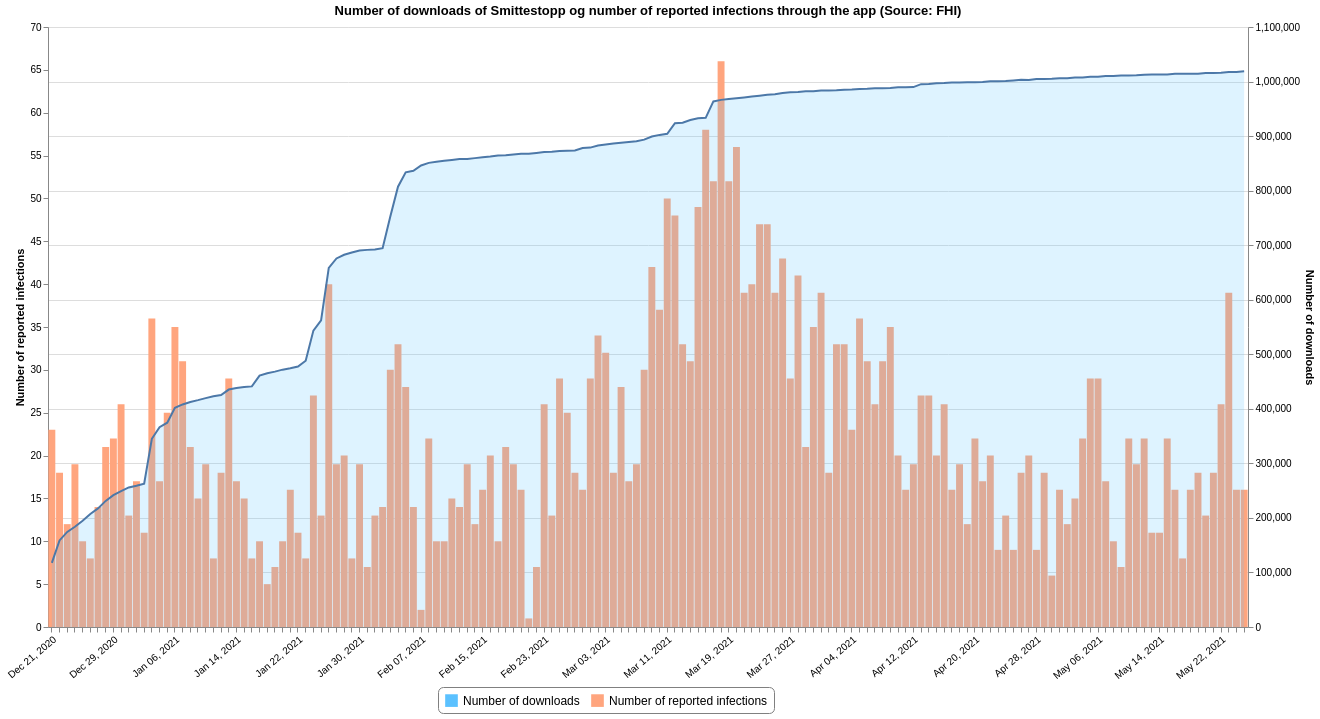
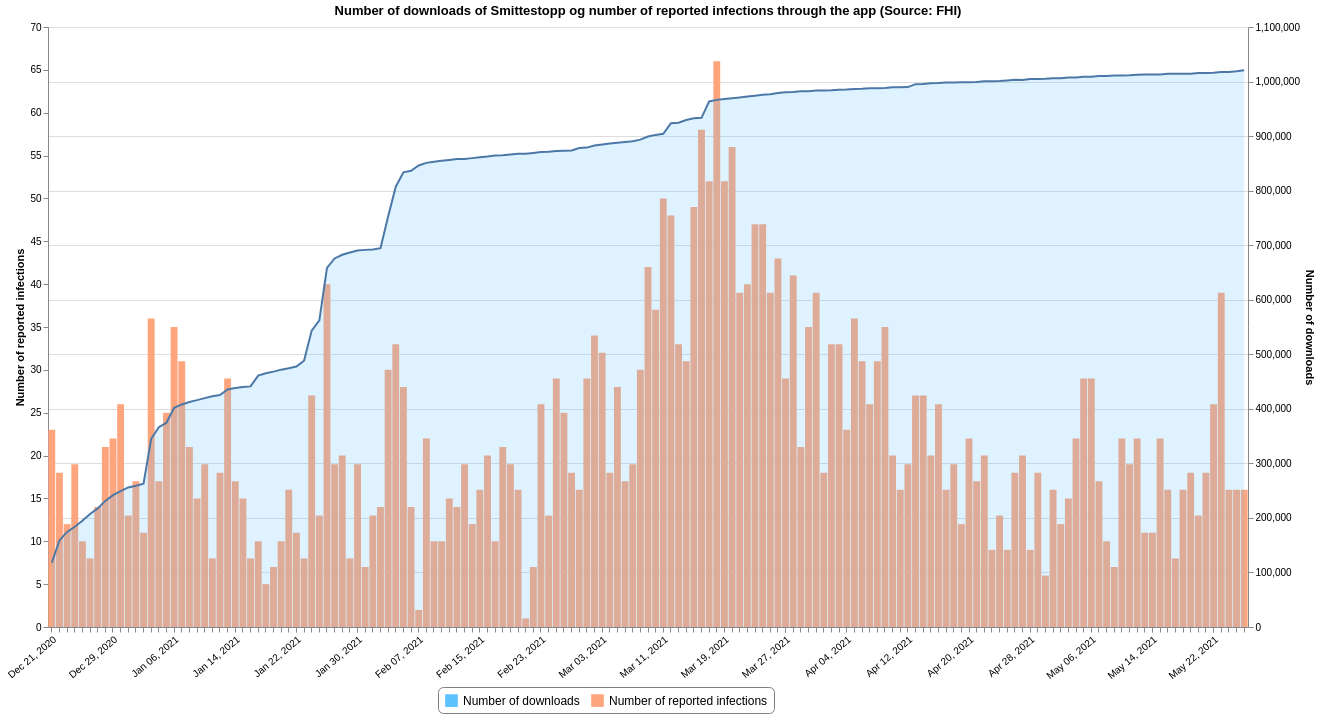
Updated 2021-05-28 11:10

diff --git a/README.md b/README.md
@@ -17,7 +17,7 @@ This repository contains datasets of daily time-series data related to COVID-19 
 |[Tested Lab](#tested_labcsv)|FHI|2021-05-27 13:50:43+02:00|[<center>csv</center>](https://raw.githubusercontent.com/frefrik/c19norge-data/main/data/tested_lab.csv)|[<center>preview</center>](data/tested_lab.csv)|
 |[Transport](#transportcsv)|FHI|2021-05-27 13:30:56+02:00|[<center>csv</center>](https://raw.githubusercontent.com/frefrik/c19norge-data/main/data/transport.csv)|[<center>preview</center>](data/transport.csv)|
 |[Vaccine Doses](#vaccine_dosescsv)|FHI|2021-05-27 13:50:47+02:00|[<center>csv</center>](https://raw.githubusercontent.com/frefrik/c19norge-data/main/data/vaccine_doses.csv)|[<center>preview</center>](data/vaccine_doses.csv)|
-|[Smittestopp](#smittestoppcsv)|FHI|2021-05-26 09:30:56+02:00|[<center>csv</center>](https://raw.githubusercontent.com/frefrik/c19norge-data/main/data/smittestopp.csv)|[<center>preview</center>](data/smittestopp.csv)|
+|[Smittestopp](#smittestoppcsv)|FHI|2021-05-28 11:10:47+02:00|[<center>csv</center>](https://raw.githubusercontent.com/frefrik/c19norge-data/main/data/smittestopp.csv)|[<center>preview</center>](data/smittestopp.csv)|
 <!-- table ends -->
 
 ## Datafiles
